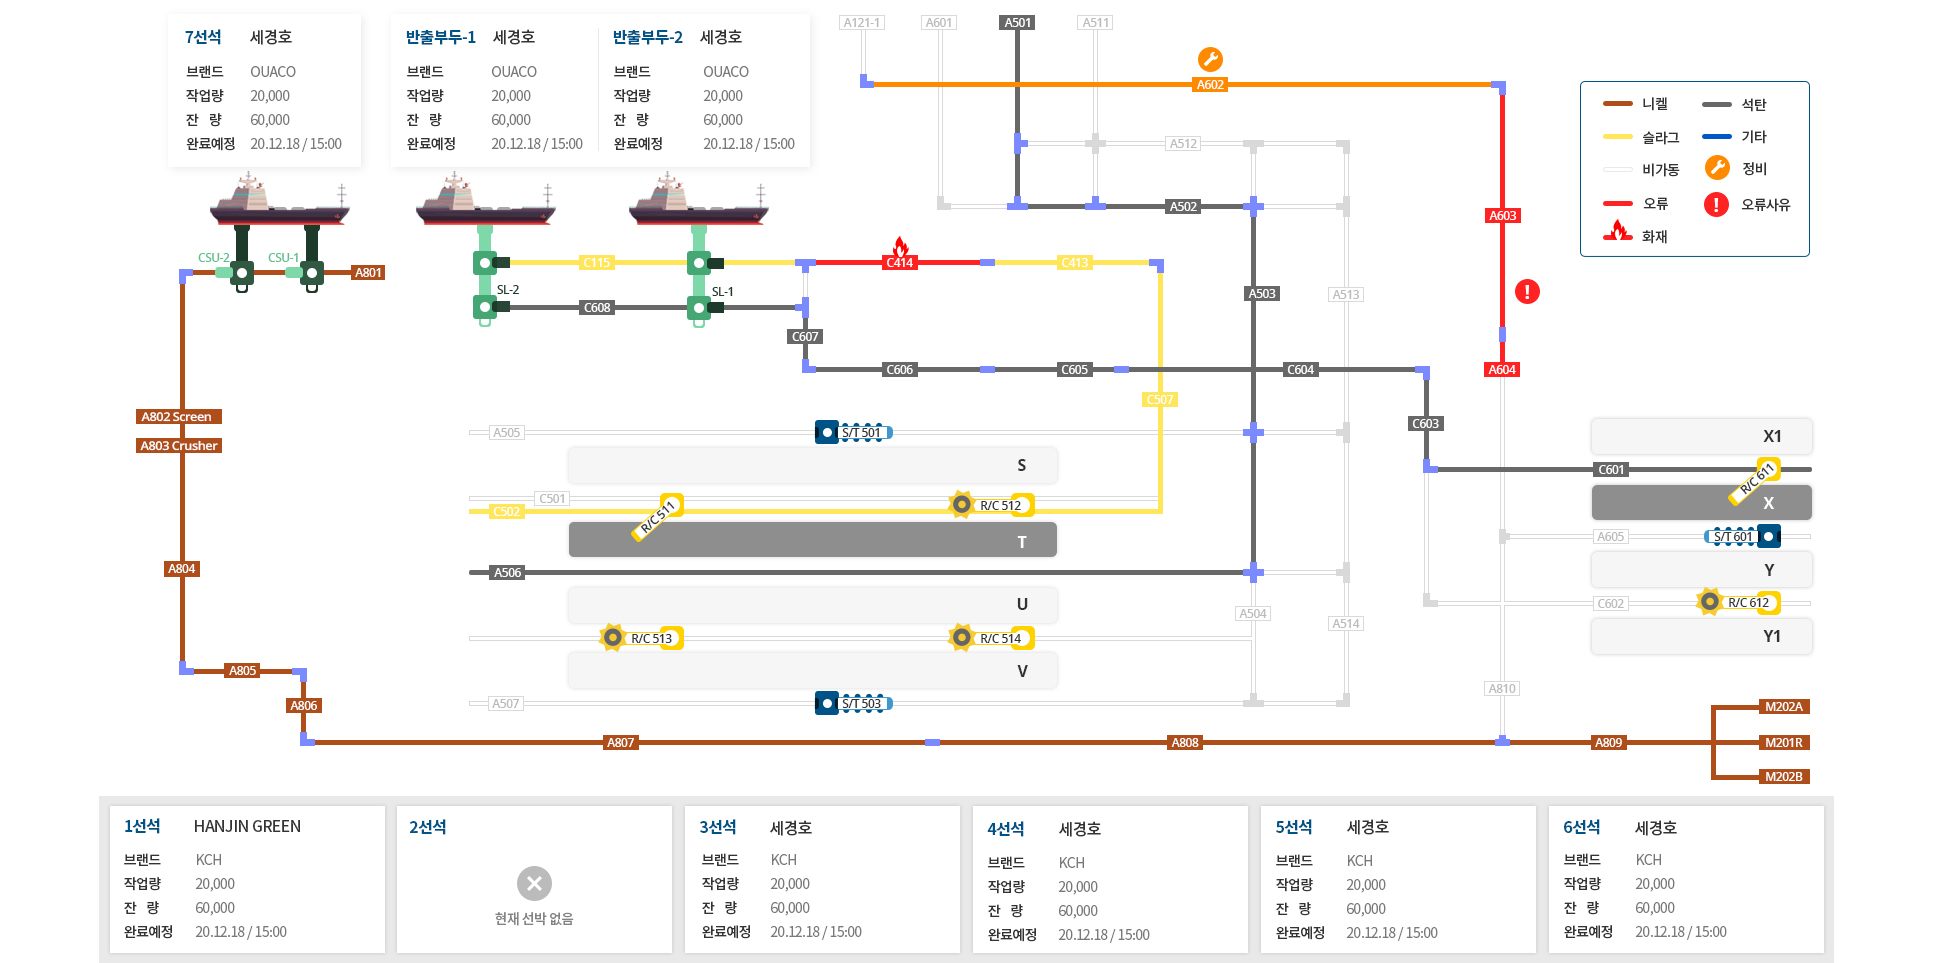
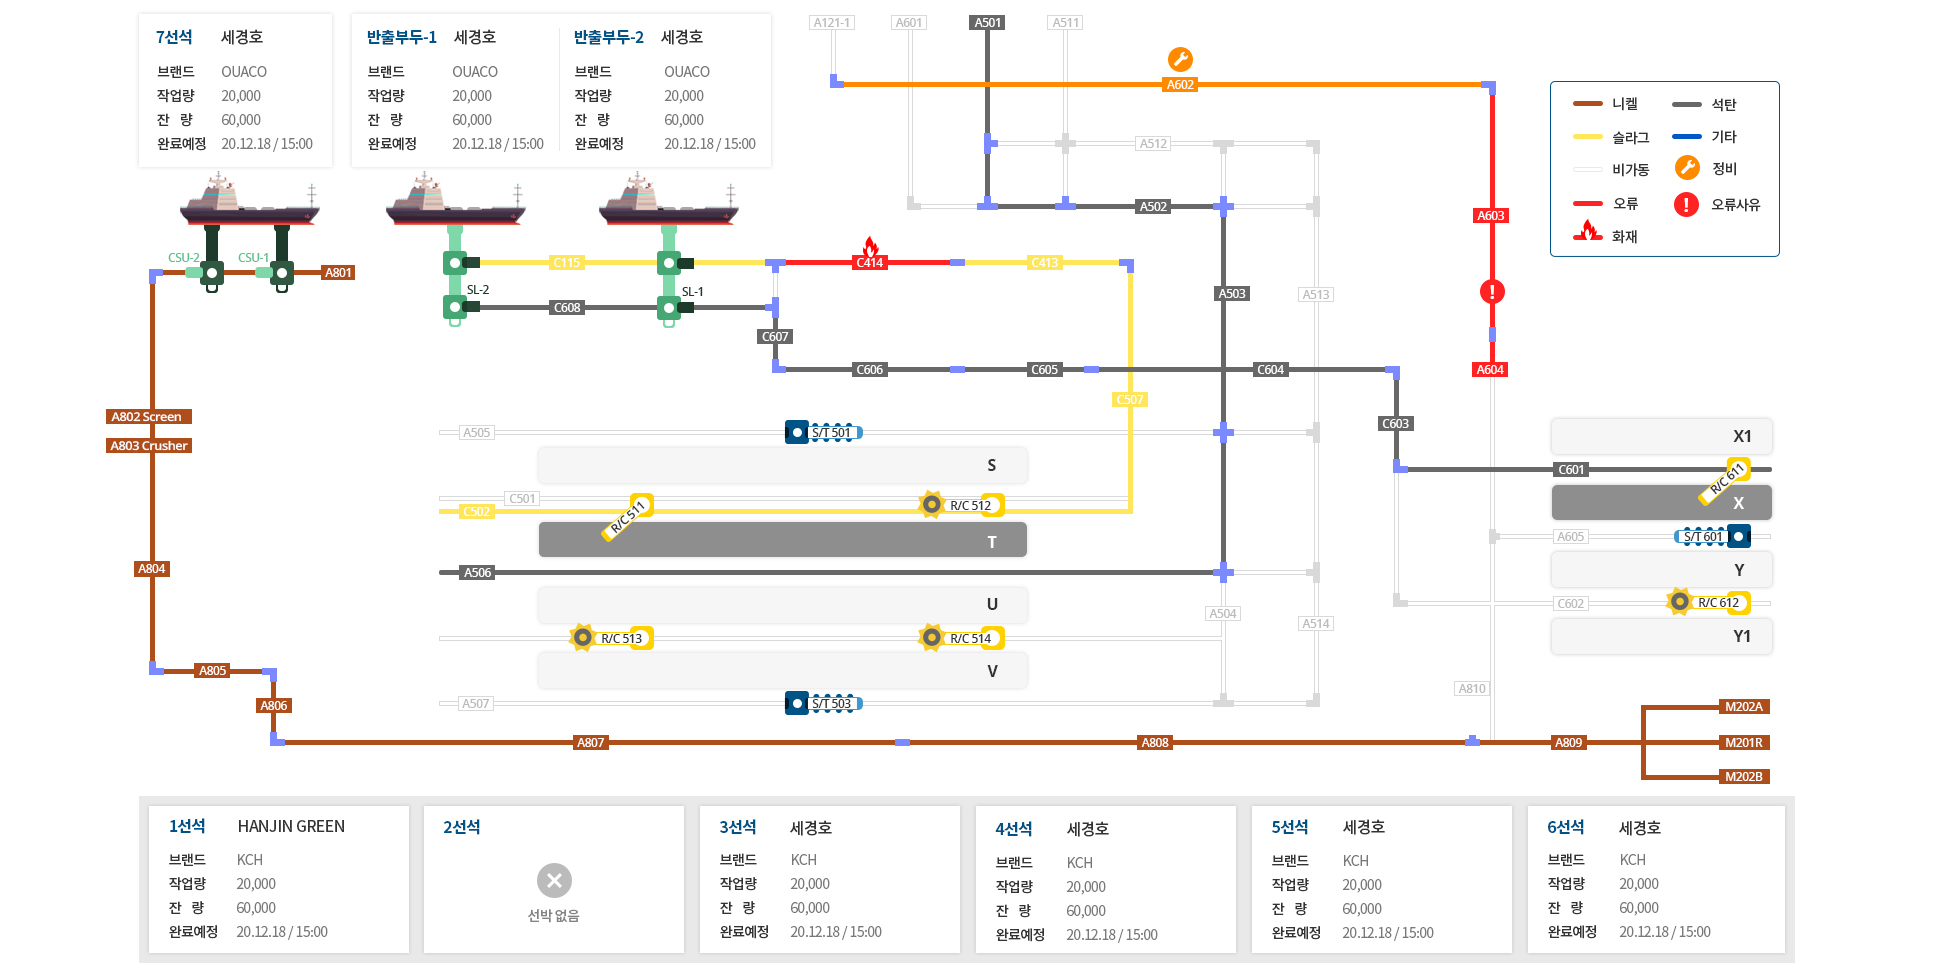
포스코 수정2

diff --git a/index.html b/index.html
@@ -6,7 +6,7 @@
 			.main_bg{background:url('img/posco_1.jpg')no-repeat 100% center; height:1080px; width:1920px; margin:0 auto; position:relative;}
 			.cogwheel{position:relative; width:100%; height:100%;}
 			.cogwheel p{position:absolute;}
-			.cogwheel .reclaimer_left1{left:604px; bottom:451px;}
+			.cogwheel .reclaimer_left1{left:574px; bottom:451px;}
 			.cogwheel .reclaimer_left2{right:188px; bottom:489px;}
 			.cogwheel .stacker1{left:779px; bottom:417px;}
 			.view_link{position:absolute; right:580px; z-index:333; top:20px;}
